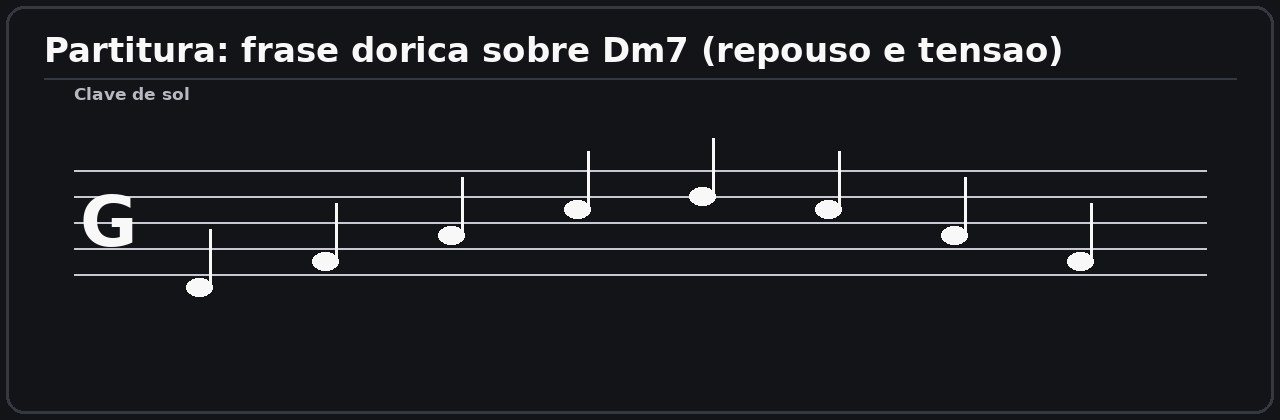
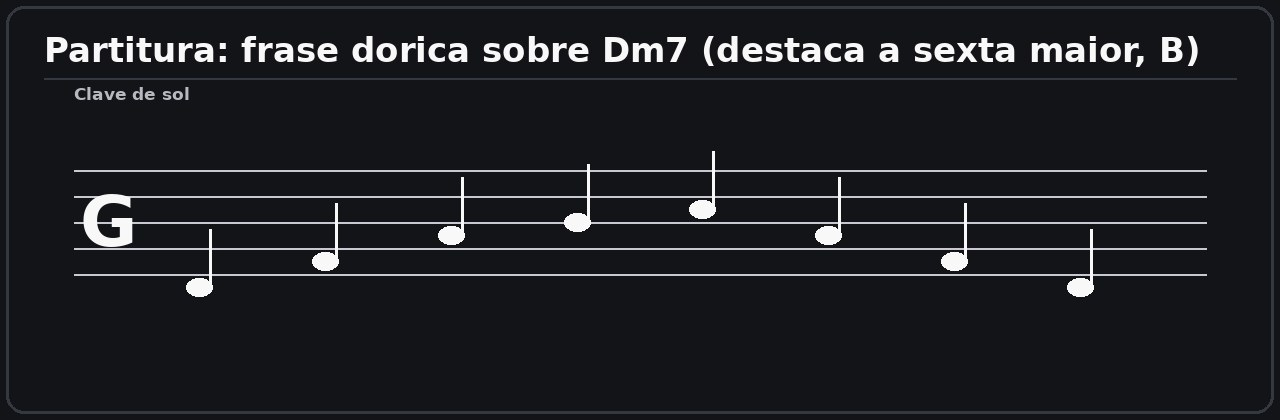
fix(modulo-10): corrige achados do painel de revisao
F1 (bloqueante) — Db7 estava codificado como { 1, 5, 8, 0 } (Db-F-Ab-C =
Db7M) em ModuleCatalog.cpp (EX-10.G.2, EX-10.H.3, EX-10.I.2 e GATE-10).
Com cobertura >= 0,90 o aluno que tocasse Db7 correto (Cb) era reprovado;
so passava quem tocava o acorde errado. Corrigido para { 1, 5, 8, 11 }
(Db-F-Ab-Cb = Db7) nas 4 ocorrencias.

F2 (bloqueante) — audio "G7 e Db7" (Topic10G.cpp) tocava Eb7
(D#4 G4 A#4 C#5). Trocado por C#4 F4 G#4 B4 = Db7.

F3 (bloqueante) — audio "Fm7" (Topic10E.cpp) tocava F7sus4
(F3 A#3 C4 D#4). Trocado A#3 -> G#3 = F3 G#3 C4 D#4 = Fm7.

F4 (bloqueante) — a partitura/audio do turnaround "C7M - A7 - Dm7 - G7"
soletrava Am7 + G7 (sem C# nem B). Alinhados notas, audio, legenda e o
desenho em tools/make_diagrams.py: agora arpeja de fato
C7M (C-E-G-B) - A7 (C#-E-G-A) - Dm7 (D-F-A-C) - G7 (G-B-D-F). Regerado
m10_partitura_turnaround.jpg.

F5 (secundario) — audio "ii como power chord" (Topic10J.cpp) tocava raiz
em Do; trocado por D3 A3 D4 A4 (power chord de D = ii). Legenda da
partitura verticalizada (Topic10D.cpp) reescrita para nao sugerir acordes
que o audio nao contem.

Menores (achados do proprio painel + varredura): audio "Em para Fm"
(Topic10E.cpp) tinha A natural no Fm; trocado por Ab/D#. A partitura
dorica (m10_partitura_modal) e o audio correspondente nao destacavam a
sexta maior (B) prometida pela legenda; alinhados (B incluido).

QA — testModule10() agora confere a progressao inteira do gate (cada
[…]

diff --git a/tests/TestMain.cpp b/tests/TestMain.cpp
@@ -1215,19 +1215,40 @@ void testModule10()
     check (! m10->sources.isEmpty(), "module 10 cites its curated apostilas (REQ-006)");
 
     // The gate closes the module as a reharmonised ii–V–I on the grid (REQ-009).
+    // Every chord is checked, not just the first and last: the tritone
+    // substitution (Db7) must carry Cb (= 11), not C (= 0), or a student who
+    // plays the correct chord would be failed (panel finding F1).
+    const std::vector<std::vector<int>> gateChords {
+        { 2, 5, 9, 0 },    // Dm7
+        { 9, 1, 4, 7 },    // A7 (dominante secundário)
+        { 2, 5, 9, 0 },    // Dm7
+        { 1, 5, 8, 11 },   // Db7 (subV: Db–F–Ab–Cb)
+        { 0, 4, 7, 11 },   // C7M (alvo)
+    };
     bool hasGate = false;
     for (const auto& e : m10->exercises)
         if (e.isGate)
         {
             hasGate = true;
-            check (e.chordProgression.size() == 5, "module 10 gate has five chords");
-            check (e.chordProgression.front() == std::vector<int> ({ 2, 5, 9, 0 }),
-                   "module 10 gate opens on Dm7 (the ii)");
-            check (e.chordProgression.back() == std::vector<int> ({ 0, 4, 7, 11 }),
-                   "module 10 gate resolves on C7M (the target)");
+            check (e.chordProgression == gateChords, "module 10 gate spells every chord correctly");
             check (e.usesGrid, "module 10 gate is graded against the grid");
         }
     check (hasGate, "module 10 has a gate exercise");
+
+    // The tritone-substitution exercises must spell Db7 with Cb (= 11). A wrong
+    // spelling here would fail a student who plays the chord correctly (F1).
+    int subVCount = 0;
+    for (const auto& e : m10->exercises)
+        for (const auto& chord : e.chordProgression)
+            if (chord == std::vector<int> ({ 1, 5, 8, 11 }))
+                ++subVCount;
+    check (subVCount >= 4, "the Db7 (subV) is spelled correctly in every exercise");
+
+    // No exercise may contain the mis-spelled Db7M (C instead of Cb).
+    for (const auto& e : m10->exercises)
+        for (const auto& chord : e.chordProgression)
+            check (chord != std::vector<int> ({ 1, 5, 8, 0 }),
+                   "no exercise spells Db7 as Db7M (" + e.id + ")");
 }
 
 int main()

diff --git a/Source/Course/Content/Topic10E.cpp b/Source/Course/Content/Topic10E.cpp
@@ -54,7 +54,7 @@ std::vector<ContentItem> topic10E()
         }),
         c (
             "O ii–V–I é a ferramenta de modulação mais poderosa: para ir a qualquer tom, toque o ii e o V daquele tom antes de chegar nele. É assim que os standards modulam por toda parte."),
-        part ("m10_partitura_turnaround", { "C4", "E4", "G4", "A4", "D5", "F5", "G5", "B4" },
+        part ("m10_partitura_turnaround", { "C4", "E4", "G4", "B4", "C#4", "E4", "G4", "A4", "D4", "F4", "A4", "C5", "G3", "B3", "D4", "F4" },
               "Partitura de um turnaround que conecta áreas: ouça como a harmonia prepara a volta ao centro."),
 
         h ("Modulação no repertório curado"),
@@ -63,7 +63,7 @@ std::vector<ContentItem> topic10E()
         b ("500 Miles High: duas áreas ligadas por cromatismo (movimento por graus conjuntos)."),
         b ("Spain: modulação explícita, com seção C que muda de centro e retorna."),
         b ("Incompatibilidade de Gênios: empréstimo modal e baixos pedalizados, sem modular de fato."),
-        aud ({ "E4", "G4", "B4", "D5", "F4", "A4", "C5", "E5" },
+        aud ({ "E4", "G4", "B4", "D5", "F4", "G#4", "C5", "D#4" },
              "Duas áreas tonais ligadas: de Em para Fm. Ouça o movimento cromático que conecta os centros."),
 
         h ("Empréstimo modal: a modulação sem sair de casa"),
@@ -78,7 +78,7 @@ std::vector<ContentItem> topic10E()
         b ("Empréstimo modal não modula: a tonalidade continua a mesma."),
         b ("Ele pega a cor do campo menor paralelo sem mudar o centro."),
         b ("É uma das ferramentas mais usadas na reharmonização."),
-        aud ({ "F3", "A#3", "C4", "D#4" }, "Fm7 emprestado do campo menor paralelo: ouça o escurecimento dentro de Dó maior."),
+        aud ({ "F3", "G#3", "C4", "D#4" }, "Fm7 emprestado do campo menor paralelo: ouça o escurecimento dentro de Dó maior."),
 
         h ("Como praticar a conexão entre campos"),
         p (

diff --git a/Source/Course/ModuleCatalog.cpp b/Source/Course/ModuleCatalog.cpp
@@ -1531,7 +1531,7 @@ namespace
                        juce::String::fromUTF8 ("O app reconhece as notas e confere a progressão com o subV.")), "G");
         m.exercises.back().chordProgression = {
             { 2, 5, 9, 0 },    // Dm7
-            { 1, 5, 8, 0 },    // Db7
+            { 1, 5, 8, 11 },   // Db7
             { 0, 4, 7, 11 },   // C7M
         };
         m.exercises.back().usesGrid = false;
@@ -1604,7 +1604,7 @@ namespace
                        juce::String::fromUTF8 ("O app reconhece as notas e confere a chegada ao alvo por subV.")), "H");
         m.exercises.back().chordProgression = {
             { 2, 5, 9, 0 },    // Dm7
-            { 1, 5, 8, 0 },    // Db7
+            { 1, 5, 8, 11 },   // Db7
             { 0, 4, 7, 11 },   // C7M
         };
         m.exercises.back().usesGrid = false;
@@ -1645,7 +1645,7 @@ namespace
             { 0, 4, 7, 11 },   // C7M
             { 9, 1, 4, 7 },    // A7
             { 2, 5, 9, 0 },    // Dm7
-            { 1, 5, 8, 0 },    // Db7
+            { 1, 5, 8, 11 },   // Db7
             { 0, 4, 7, 11 },   // C7M
         };
         m.exercises.back().usesGrid = false;
@@ -1733,7 +1733,7 @@ namespace
             { 2, 5, 9, 0 },    // Dm7
             { 9, 1, 4, 7 },    // A7 (dominante secundário)
             { 2, 5, 9, 0 },    // Dm7
-            { 1, 5, 8, 0 },    // Db7 (subV)
+            { 1, 5, 8, 11 },   // Db7 (subV)
             { 0, 4, 7, 11 },   // C7M (alvo)
         };
 

diff --git a/Source/Course/Content/Topic10J.cpp b/Source/Course/Content/Topic10J.cpp
@@ -72,7 +72,7 @@ std::vector<ContentItem> topic10J()
         b ("A roupa vem das tensões, da densidade e do ritmo."),
         b ("Reconhecer a estrutura é o que permite vesti-la de várias formas."),
         aud ({ "D4", "F4", "A4", "C5", "E5" }, "O ii com nona (bossa): ouça a suavidade."),
-        aud ({ "C3", "G3", "D4", "A4" }, "O ii como power chord (rock): ouça a diferença de peso."),
+        aud ({ "D3", "A3", "D4", "A4" }, "O ii como power chord (rock): só fundamental e quinta (D–A). Ouça a diferença de peso."),
         img ("m10_estilos", "Do mesmo ii–V–I nascem quatro sonoridades. O estilo é a roupa; a análise é o corpo."),
 
         h ("Estilo e reharmonização"),
@@ -91,7 +91,7 @@ std::vector<ContentItem> topic10J()
         b ("Só Danço Samba / Equinox: ii–V–I, dominantes secundários e blues."),
         b ("Incompatibilidade de Gênios: empréstimo modal, síncope e acordes de passagem."),
         b ("500 Miles High / Spain: modulação, áreas distantes e reharmonização."),
-        part ("m10_partitura_turnaround", { "C4", "E4", "G4", "A4", "D5", "F5", "G5", "B4" },
+        part ("m10_partitura_turnaround", { "C4", "E4", "G4", "B4", "C#4", "E4", "G4", "A4", "D4", "F4", "A4", "C5", "G3", "B3", "D4", "F4" },
               "Partitura de um turnaround de repertório: a harmonia em contexto, pronta para ser vestida em qualquer estilo."),
 
         h ("Erros comuns na relação entre estilo e sonoridade"),

diff --git a/tools/make_diagrams.py b/tools/make_diagrams.py
@@ -1184,8 +1184,10 @@ def _m10_score(notes, caption):
 
 
 def d_m10_partitura_turnaround():
-    return _m10_score([("C", 4, None), ("E", 4, None), ("G", 4, None), ("A", 4, None),
-                       ("D", 5, None), ("F", 5, None), ("G", 5, None), ("B", 4, None)],
+    return _m10_score([("C", 4, None), ("E", 4, None), ("G", 4, None), ("B", 4, None),
+                       ("C#", 4, None), ("E", 4, None), ("G", 4, None), ("A", 4, None),
+                       ("D", 4, None), ("F", 4, None), ("A", 4, None), ("C", 5, None),
+                       ("G", 3, None), ("B", 3, None), ("D", 4, None), ("F", 4, None)],
                       "Partitura: turnaround C7M - A7 - Dm7 - G7 (arpejos)")
 
 
@@ -1207,9 +1209,9 @@ def d_m10_partitura_verticalizacao():
 
 
 def d_m10_partitura_modal():
-    return _m10_score([("D", 4, None), ("F", 4, None), ("A", 4, None), ("C", 5, None),
-                       ("D", 5, None), ("C", 5, None), ("A", 4, None), ("F", 4, None)],
-                      "Partitura: frase dorica sobre Dm7 (repouso e tensao)")
+    return _m10_score([("D", 4, None), ("F", 4, None), ("A", 4, None), ("B", 4, None),
+                       ("C", 5, None), ("A", 4, None), ("F", 4, None), ("D", 4, None)],
+                      "Partitura: frase dorica sobre Dm7 (destaca a sexta maior, B)")
 
 
 DIAGRAMS.update({

diff --git a/Source/Course/Content/Topic10A.cpp b/Source/Course/Content/Topic10A.cpp
@@ -54,7 +54,7 @@ std::vector<ContentItem> topic10A()
         aud ({ "G3", "B3", "D4", "F4" }, "Dominante: o acorde de tensão (Sol com sétima). Ouça o pedido de resolução."),
         p (
             "O ciclo mais importante da música tonal é o ii–V–I: subdominante, dominante e tônica em sequência. Ele aparece em quase todo standard de jazz e em boa parte da MPB. Analisar uma música é, muitas vezes, encontrar os ii–V–I escondidos e ver como eles se encadeiam."),
-        part ("m10_partitura_turnaround", { "C4", "E4", "G4", "A4", "D5", "F5", "G5", "B4" },
+        part ("m10_partitura_turnaround", { "C4", "E4", "G4", "B4", "C#4", "E4", "G4", "A4", "D4", "F4", "A4", "C5", "G3", "B3", "D4", "F4" },
               "Partitura: os arpejos de um turnaround C7M – A7 – Dm7 – G7. Ouça como a harmonia caminha grau por grau."),
 
         h ("Escala: como o acorde soa"),

diff --git a/Source/Course/Content/Topic10H.cpp b/Source/Course/Content/Topic10H.cpp
@@ -127,7 +127,7 @@ std::vector<ContentItem> topic10H()
         b ("Continue para trás (A7, Em7b5) até onde quiser começar."),
         aud ({ "E3", "G3", "A#3", "D4", "A3", "C#4", "E4", "G4", "D4", "F4", "A4", "C5", "G3", "B3", "D4", "F4", "C4", "E4", "G4", "B4" },
              "Uma cadência longa construída de trás para frente: Em7b5 – A7 – Dm7 – G7 – C7M. Ouça a direção."),
-        part ("m10_partitura_turnaround", { "C4", "E4", "G4", "A4", "D5", "F5", "G5", "B4" },
+        part ("m10_partitura_turnaround", { "C4", "E4", "G4", "B4", "C#4", "E4", "G4", "A4", "D4", "F4", "A4", "C5", "G3", "B3", "D4", "F4" },
               "Partitura de uma progressão construída em direção ao alvo. Ouça a chegada."),
 
         h ("Alvo e improvisação"),

diff --git a/Source/Course/Content/Topic10G.cpp b/Source/Course/Content/Topic10G.cpp
@@ -36,7 +36,7 @@ std::vector<ContentItem> topic10G()
         }),
         c (
             "A substituição de trítono é a mais famosa: o dominante que está a um trítono de distância do V tem o mesmo trítono interno e pode tomar o seu lugar. G7 e Db7 resolvem ambos para C."),
-        aud ({ "G3", "B3", "D4", "F4", "D#4", "G4", "A#4", "C#5" },
+        aud ({ "G3", "B3", "D4", "F4", "C#4", "F4", "G#4", "B4" },
              "G7 e Db7 em sequência: os dois resolvem para C. Ouça como o baixo desce de cromatismo."),
         aud ({ "D4", "F4", "A4", "C5", "F3", "A3", "C4", "E4" },
              "Dm7 e F7M: o substituto mantém F, A e C. Ouça a cor mudar sem mudar o caminho."),

diff --git a/Source/Course/Content/Topic10C.cpp b/Source/Course/Content/Topic10C.cpp
@@ -88,7 +88,7 @@ std::vector<ContentItem> topic10C()
         b ("Mudar o modo de um acorde muda a sonoridade sem trocar o acorde."),
         b ("A escolha modal justifica substituições de escala (lídio b7, alterada)."),
         b ("A cor é uma decisão de análise, não um acidente."),
-        part ("m10_partitura_modal", { "D4", "F4", "A4", "C5", "D5", "C5", "A4", "F4" },
+        part ("m10_partitura_modal", { "D4", "F4", "A4", "B4", "C5", "A4", "F4", "D4" },
               "Partitura: uma frase dórica sobre Dm7, destacando a sexta maior. Ouça a escolha modal em ação."),
 
         h ("Modos e a escala da tonalidade: o que muda"),

diff --git a/Source/Course/Content/Topic10B.cpp b/Source/Course/Content/Topic10B.cpp
@@ -150,7 +150,7 @@ std::vector<ContentItem> topic10B()
         b ("Converter a melodia em graus revela o desenho da frase."),
         b ("A melodia define o que a harmonia pode fazer; ela aponta os acordes possíveis."),
         b ("Improvisar é alternar repouso e tensão com intenção (REQ-011, REQ-012)."),
-        part ("m10_partitura_modal", { "D4", "F4", "A4", "C5", "D5", "C5", "A4", "F4" },
+        part ("m10_partitura_modal", { "D4", "F4", "A4", "B4", "C5", "A4", "F4", "D4" },
               "Partitura de uma frase dórica sobre Dm7: repouso nas notas do acorde e tensão resolvida. Ouça o equilíbrio."),
     };
 }

diff --git a/Source/Course/Content/Topic10D.cpp b/Source/Course/Content/Topic10D.cpp
@@ -112,7 +112,7 @@ std::vector<ContentItem> topic10D()
         b ("Escolha um acorde por nota e toque a melodia por cima."),
         b ("Ajuste pela condução de vozes (tópico F)."),
         part ("m10_partitura_verticalizacao", { "A4", "G4", "F4", "E4" },
-              "Partitura da melodia verticalizada: a mesma linha, agora harmonizada acorde a acorde."),
+              "Partitura da melodia verticalizada: a mesma linha A–G–F–E, que os acordes do tópico harmonizam acorde a acorde."),
 
         h ("Onde a verticalização se aplica"),
         p (
